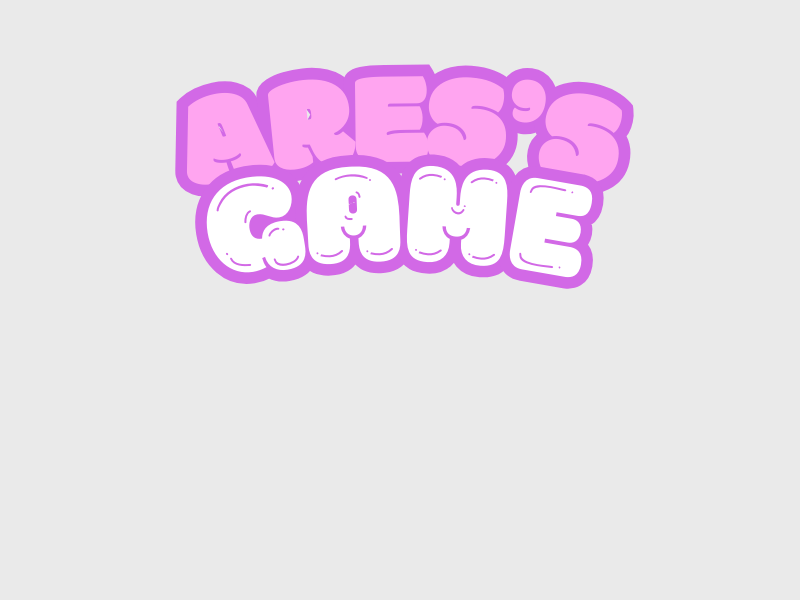
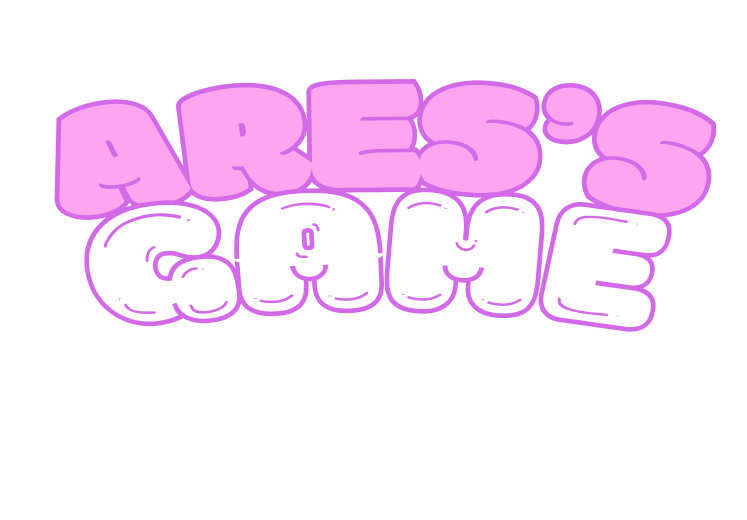
finish 2 screen

Changed region(s): [[0.0616, 0.0923, 0.9545, 0.6462], [0.0924, 0.4615, 0.1232, 0.5538], [0.4311, 0.4923, 0.4618, 0.5231]]

diff --git a/main.py b/main.py
@@ -1,11 +1,10 @@
 import pygame
 import os
 
-
 pygame.init()
 
 # Constants
-SCREEN_WIDTH, SCREEN_HEIGHT = 800, 600
+SCREEN_WIDTH, SCREEN_HEIGHT = 1122, 700
 BUTTON_WIDTH, BUTTON_HEIGHT = 200, 50
 FONT_SIZE = 32
 
@@ -14,7 +13,6 @@ WHITE = (255, 255, 255)
 BLACK = (0, 0, 0)
 GREEN = (0, 255, 0)
 GRAY = (100, 100, 100)
-
 
 
 class Button:
@@ -28,52 +26,94 @@ class Button:
     def draw(self, screen):
         pygame.draw.rect(screen, self.color, self.rect)
         text_surface = self.font.render(self.text, True, WHITE)
-        screen.blit(text_surface, (self.rect.x + (self.rect.width - text_surface.get_width()) // 2, 
-                                   self.rect.y + (self.rect.height - text_surface.get_height()) // 2))
+        screen.blit(text_surface, (self.rect.x + (self.rect.width - text_surface.get_width()) // 2,
+                                    self.rect.y + (self.rect.height - text_surface.get_height()) // 2))
 
     def is_clicked(self, pos):
         return self.rect.collidepoint(pos)
 
+
 class SokobanGame:
     def __init__(self):
+        pygame.init()  # Initialize Pygame
+        self.screen = pygame.display.set_mode((SCREEN_WIDTH, SCREEN_HEIGHT))
+        pygame.display.set_caption("Sokoban Game")
+        self.algoType = None
         self.state = "welcome"
         self.level = None
-        self.background = pygame.image.load('asset/Aries.png')
+        self.title = pygame.image.load('asset/Aries.png')
+        self.background = pygame.image.load('asset/background.png')
+        self.background = pygame.transform.scale(self.background, (SCREEN_WIDTH, SCREEN_HEIGHT))
         self.button_start = pygame.image.load('asset/start_btn.png')
+        self.table = pygame.image.load('asset/table.png')
+        self.titleTableAlgo = pygame.image.load('asset/title_table_algo.png')
+        self.titleTableLevel = pygame.image.load('asset/level_title.png')
         self.button_start_rect = self.button_start.get_rect()
-        self.button_start_rect.topleft = (320, 330) 
-         # Load and play background music
-        pygame.mixer.music.load('asset/music.mp3')  # Replace with your music file path
-        pygame.mixer.music.play(-1)  # -1 makes the music loop indefinitely
+        self.button_start_rect.topleft = (458, 461)
+        self.algoBtn = []
+        self.algoBtnRects = []
+        for i in range(1, 5):
+            button_image = pygame.image.load(f'asset/algo{i}.png')
+            self.algoBtn.append(button_image)
+            self.algoBtnRects.append(button_image.get_rect())
 
+        # Set positions for algorithm buttons
+        self.algoBtnRects[0].topleft = (281, 268)
+        self.algoBtnRects[1].topleft = (281, 481)
+        self.algoBtnRects[2].topleft = (612, 274)
+        self.algoBtnRects[3].topleft = (612, 479)
+        self.levelBtn = []
+        self.levelBtnRects = []
+        for i in range(1, 13):
+            button_image = pygame.image.load(f'asset/{i}.png')
+            self.levelBtn.append(button_image)
+            self.levelBtnRects.append(button_image.get_rect())
+        self.levelBtnRects[0].topleft = (282.78, 236.48)
+        self.levelBtnRects[1].topleft = (435.82, 236.48)
+        self.levelBtnRects[2].topleft = (599.59, 236.48)
+        self.levelBtnRects[3].topleft = (764.79, 236.48)
+        self.levelBtnRects[4].topleft = (282.78, 383.8)
+        self.levelBtnRects[5].topleft = (435.82, 383.8)
+        self.levelBtnRects[6].topleft = (599.59, 383.8)
+        self.levelBtnRects[7].topleft = (764.79, 383.8)
+        self.levelBtnRects[8].topleft = (282.78, 531.12)
+        self.levelBtnRects[9].topleft = (435.82, 531.12)
+        self.levelBtnRects[10].topleft = (599.59, 531.12)
+        self.levelBtnRects[11].topleft = (764.79, 531.12)
 
+        
     def welcome_screen(self):
-        screen.blit(self.background, (0, 0)) # Draw background image
-        screen.blit(self.button_start, self.button_start_rect.topleft)
-
+        self.screen.blit(self.background, (0, 0))  # Draw background first
+        self.screen.blit(self.title, (187, -50))
+        self.screen.blit(self.button_start, self.button_start_rect.topleft)
 
     def level_selection_screen(self):
-        screen.fill(WHITE)
-        select_font = pygame.font.SysFont(None, 48)
-        select_text = select_font.render("Select Level", True, BLACK)
-        screen.blit(select_text, ((SCREEN_WIDTH - select_text.get_width()) // 2, 100))
+        self.screen.blit(self.background, (0, 0))  
+        self.screen.blit(self.table, (227, 200))
+        self.screen.blit(self.titleTableLevel, (229, 57))
+        for i, button in enumerate(self.levelBtn):
+            self.screen.blit(button, self.levelBtnRects[i].topleft)
+    def algo_selection_screen(self):
+        self.screen.blit(self.background, (0, 0))  
+        self.screen.blit(self.titleTableAlgo, (229, 57))  
+        self.screen.blit(self.table, (227, 200))  
+        for i, button in enumerate(self.algoBtn):
+            self.screen.blit(button, self.algoBtnRects[i].topleft)
+        
 
-        # Display level buttons
-        for idx, button in enumerate(level_buttons):
-            button.draw(screen)
 
     def load_level(self, level_file):
         with open(level_file, 'r') as f:
             self.level = f.readlines()  # Load map into a list of strings
 
     def play_game(self):
-        screen.fill(WHITE)
+        self.screen.fill(WHITE)
         if self.level:
             for y, row in enumerate(self.level):
                 for x, char in enumerate(row.strip()):
-                    # Draw map (for now just using text representation, you can later draw images or shapes)
+                    # Draw map (for now just using text representation)
                     text = pygame.font.SysFont(None, 32).render(char, True, BLACK)
-                    screen.blit(text, (x * 32, y * 32))
+                    self.screen.blit(text, (x * 32, y * 32))
 
     def run(self):
         running = True
@@ -82,18 +122,29 @@ class SokobanGame:
                 if event.type == pygame.QUIT:
                     running = False
 
-                elif event.type == pygame.MOUSEBUTTONDOWN:
+                 # Check for mouse button events
+                if event.type == pygame.MOUSEBUTTONDOWN:
                     if self.state == "welcome":
-                        if  self.button_start_rect.collidepoint(event.pos):
-                            self.state = "level_selection"
+                        if self.button_start_rect.collidepoint(event.pos):
+                            self.state = "algo_selection"
+                    elif self.state == "algo_selection":
+                        for i, rect in enumerate(self.algoBtnRects):
+                            if rect.collidepoint(event.pos):
+                                self.algoType = i
+                                self.state = "level_selection"
+                                break
                     elif self.state == "level_selection":
-                        for idx, button in enumerate(level_buttons):
-                            if button.is_clicked(event.pos):
-                                self.load_level(f"level{idx+1}.txt")
+                        for i, rect in enumerate(self.levelBtnRects):
+                            if rect.collidepoint(event.pos):
+                                self.load_level(f'levels/level{i + 1}.txt')
                                 self.state = "play_game"
-            
+                                break
+                                           
+        
             if self.state == "welcome":
                 self.welcome_screen()
+            elif self.state == "algo_selection":
+                self.algo_selection_screen()
             elif self.state == "level_selection":
                 self.level_selection_screen()
             elif self.state == "play_game":
@@ -102,21 +153,10 @@ class SokobanGame:
             pygame.display.update()
 
 def main():
-    global screen,level_buttons
-    pygame.mixer.init()
-    
-    pygame.init()
-    screen = pygame.display.set_mode((SCREEN_WIDTH, SCREEN_HEIGHT))
-    pygame.display.set_caption("Sokoban Game")
-    # Assuming you have 3 levels for demonstration
-    level_buttons = [Button(100, 200 + i * 70, BUTTON_WIDTH, BUTTON_HEIGHT, f"Level {i+1}") for i in range(3)]
-
     # Game instance
     game = SokobanGame()
     game.run()
 
+
 if __name__ == "__main__":
     main()
-
-pygame.quit()
-pygame.mixer.music.stop()  
